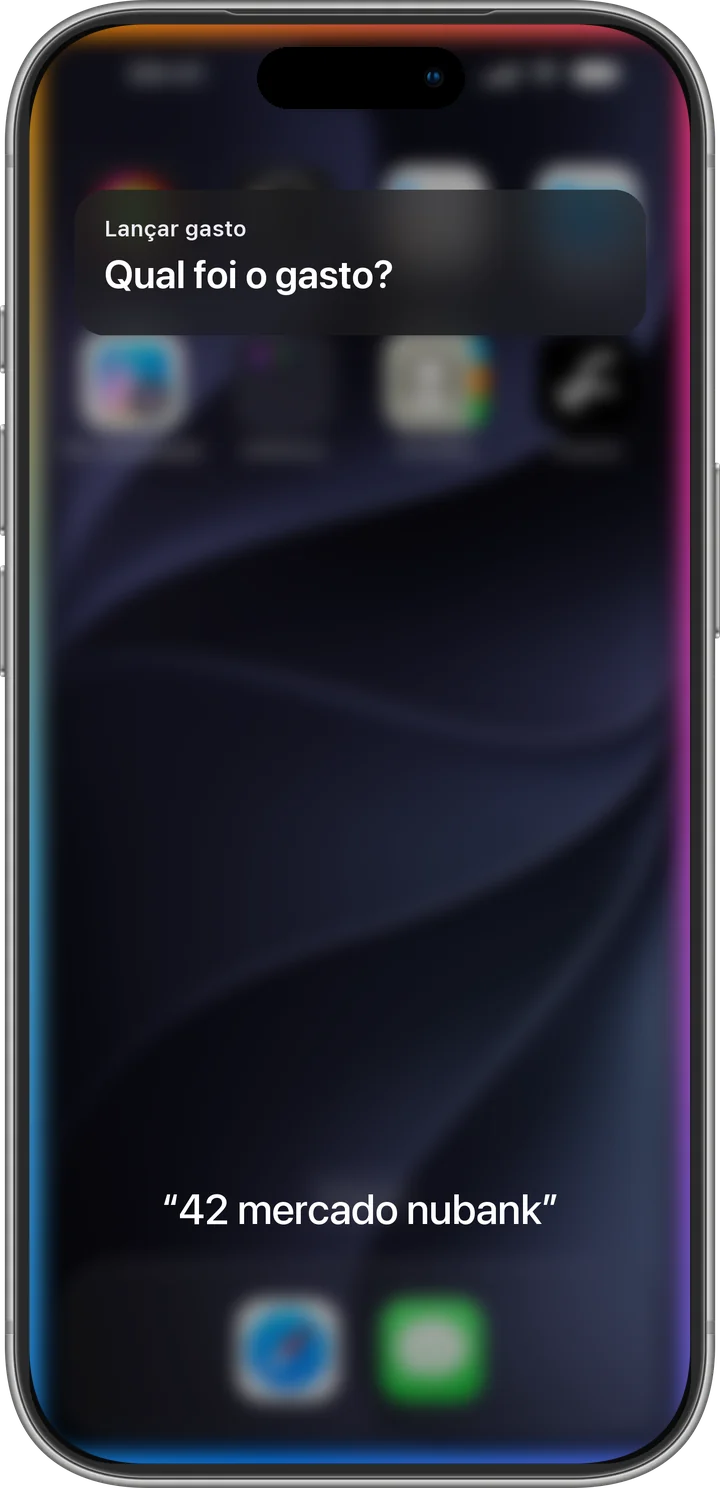
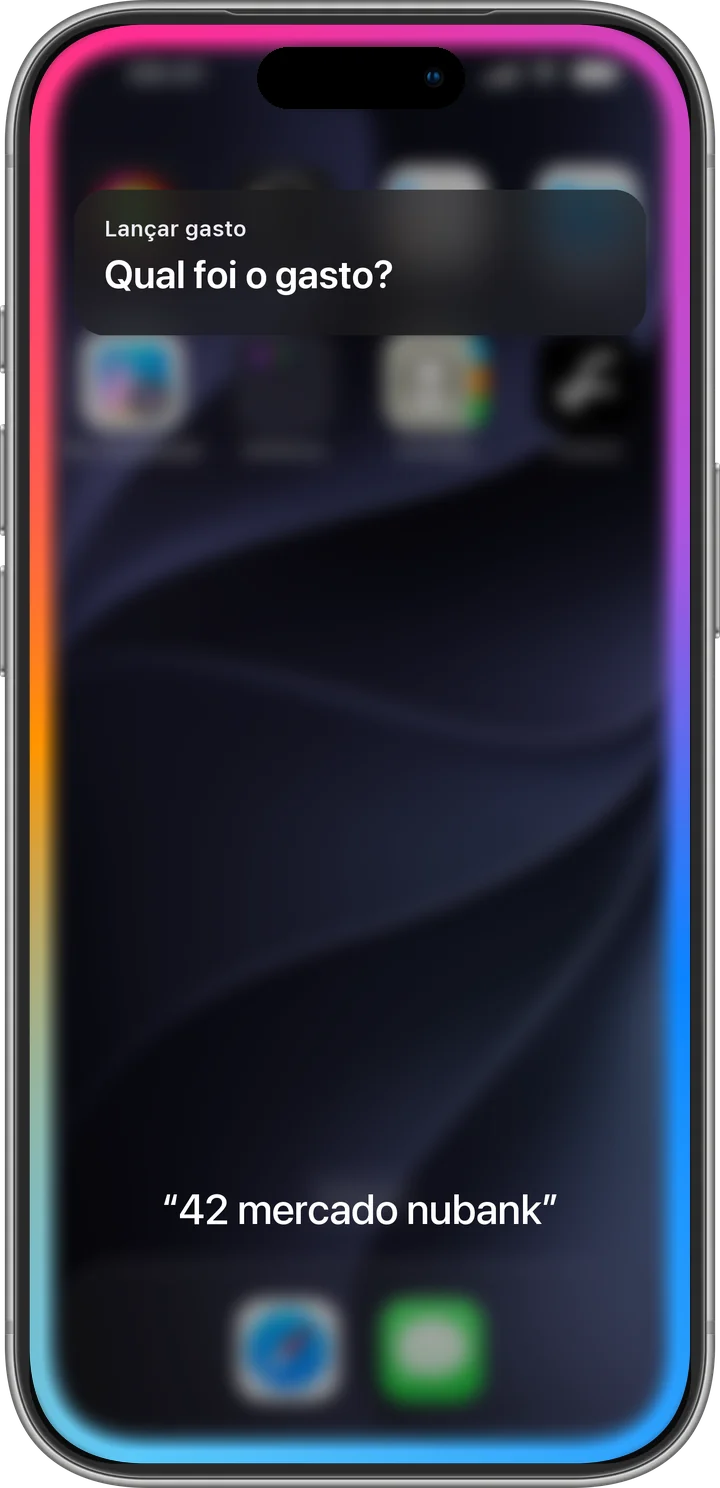
fix(conta): a borda da Siri segue a curva da tela
Desenhada reta, a borda acesa era cortada nos cantos pela moldura. Agora
é um anel por dentro da máscara da tela do PSD (a mesma que recorta a
captura), com as cores correndo em volta pelo ângulo.

Changed region(s): [[0.0306, 0.0, 0.9778, 0.9892]]

diff --git a/scripts/atalho/cenas.py b/scripts/atalho/cenas.py
@@ -8,7 +8,7 @@ cima entram a borda acesa da Siri, a pergunta e a resposta, ou a notificação
 com o ícone do Finance recortado da própria captura. Nenhum logo da Apple: a
 Siri aparece pela borda, não pelo símbolo (marca registrada).
 
-    python3 scripts/atalho/cenas.py <inicio.png> <saida-siri.png> <saida-notificacao.png>
+    python3 scripts/atalho/cenas.py <inicio.png> <saida-siri.png> <saida-notificacao.png> <mask-screen.png>
 
 As saídas são telas cruas (1320×2868); `moldura.py` as põe no iPhone 17 Pro prata.
 Precisa do Pillow.
@@ -41,37 +41,45 @@ def placa(base: Image.Image, caixa: tuple[int, int, int, int], raio: int, alfa: 
     base.paste(recorte, (x0, y0), mascara)
 
 
+MASCARA_DA_TELA = None  # o caminho da máscara da tela do PSD (`mask-screen.png`), passado por argumento
+
+
+def borda_da_siri(w: int, h: int) -> Image.Image:
+    import math
+
+    from PIL import ImageChops
+
+    mascara = Image.open(MASCARA_DA_TELA).getchannel("A").resize((w, h), Image.LANCZOS)
+    # O miolo é a máscara encolhida: borrar e cortar alto encolhe mantendo a curva dos cantos.
+    miolo = mascara.filter(ImageFilter.GaussianBlur(16)).point(lambda a: 255 if a > 250 else 0)
+    anel = ImageChops.subtract(mascara, miolo).filter(ImageFilter.GaussianBlur(22))
+    anel = ImageChops.multiply(anel, mascara)  # nada vaza para fora da tela
+    # As cores pelo ângulo em volta do centro, numa imagem pequena (o anel é borrado mesmo).
+    cores = [(255, 149, 0), (255, 45, 146), (175, 82, 222), (10, 132, 255), (90, 200, 250), (255, 149, 0)]
+    pw, ph = w // 8, h // 8
+    campo = Image.new("RGB", (pw, ph))
+    px = []
+    for y in range(ph):
+        for x in range(pw):
+            t = (math.atan2(y - ph / 2, x - pw / 2) / (2 * math.pi) + 0.5) % 1
+            a = t * (len(cores) - 1)
+            c0, c1 = cores[int(a)], cores[min(int(a) + 1, len(cores) - 1)]
+            f = a - int(a)
+            px.append(tuple(round(c0[k] + (c1[k] - c0[k]) * f) for k in range(3)))
+    campo.putdata(px)
+    campo = campo.resize((w, h), Image.BILINEAR).convert("RGBA")
+    campo.putalpha(anel.point(lambda a: min(255, int(a * 1.9))))
+    return campo
+
+
 def siri(inicio: Image.Image) -> Image.Image:
     w, h = inicio.size
     tela = inicio.convert("RGBA").filter(ImageFilter.GaussianBlur(18))
     tela = Image.alpha_composite(tela, Image.new("RGBA", tela.size, (0, 0, 0, 90)))
-    # A borda acesa da Siri: um contorno nas cores quentes e frias, borrado para dentro.
-    borda = Image.new("RGBA", tela.size, (0, 0, 0, 0))
-    d = ImageDraw.Draw(borda)
-    cores = [(255, 149, 0), (255, 45, 146), (175, 82, 222), (10, 132, 255), (90, 200, 250), (255, 149, 0)]
-    passos = 240
-    for i in range(passos):
-        t = i / passos
-        a = t * (len(cores) - 1)
-        c0, c1 = cores[int(a)], cores[min(int(a) + 1, len(cores) - 1)]
-        f = a - int(a)
-        cor = tuple(round(c0[k] + (c1[k] - c0[k]) * f) for k in range(3)) + (255,)
-        # Percorre o perímetro: topo, direita, base, esquerda.
-        per = 2 * (w + h)
-        p0, p1 = t * per, (i + 1) / passos * per
-
-        def ponto(p: float) -> tuple[float, float]:
-            if p < w:
-                return (p, 0)
-            if p < w + h:
-                return (w, p - w)
-            if p < 2 * w + h:
-                return (w - (p - w - h), h)
-            return (0, h - (p - 2 * w - h))
-
-        d.line([ponto(p0), ponto(p1)], fill=cor, width=70)
-    borda = borda.filter(ImageFilter.GaussianBlur(28))
-    tela = Image.alpha_composite(tela, borda)
+    # A borda acesa da Siri: um anel por dentro da tela, na curva dos cantos do aparelho (a
+    # máscara da tela do PSD), com as cores correndo em volta. Desenhada reta, ela era cortada
+    # nos cantos pela moldura.
+    tela = Image.alpha_composite(tela, borda_da_siri(w, h))
 
     d = ImageDraw.Draw(tela)
     # A pergunta do atalho, no topo, como a Siri responde.
@@ -107,6 +115,8 @@ def notificacao(inicio: Image.Image) -> Image.Image:
 
 
 def main() -> None:
+    global MASCARA_DA_TELA
+    MASCARA_DA_TELA = sys.argv[4]
     inicio = Image.open(sys.argv[1])
     siri(inicio).save(sys.argv[2])
     notificacao(inicio).save(sys.argv[3])
